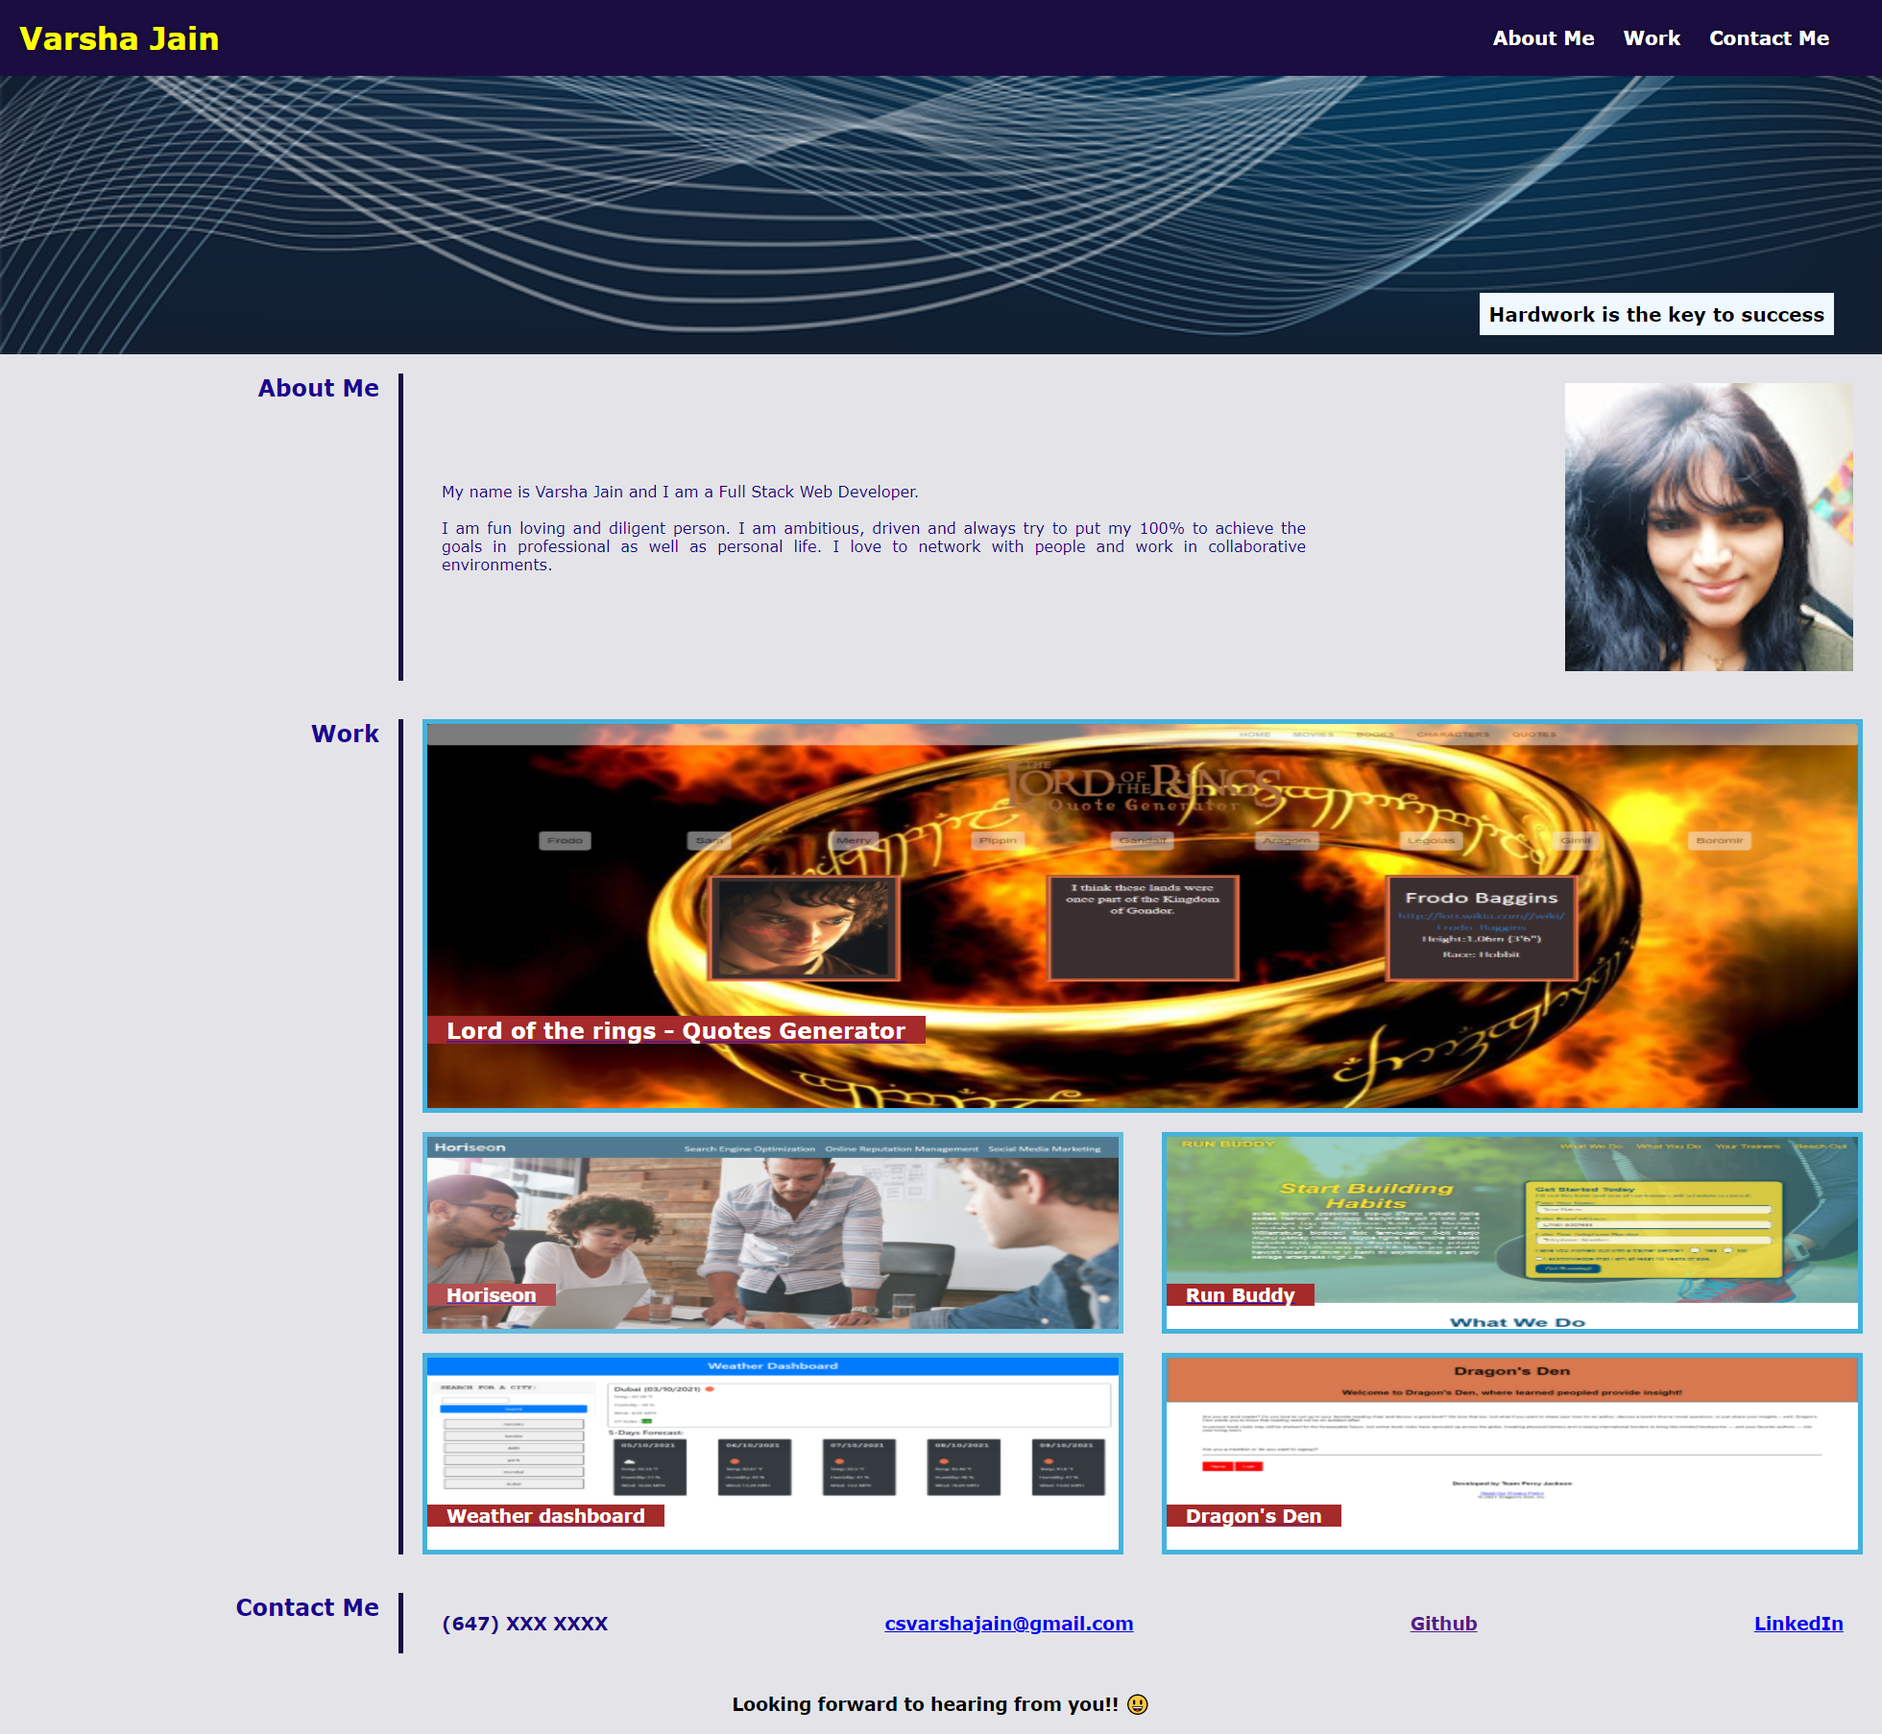
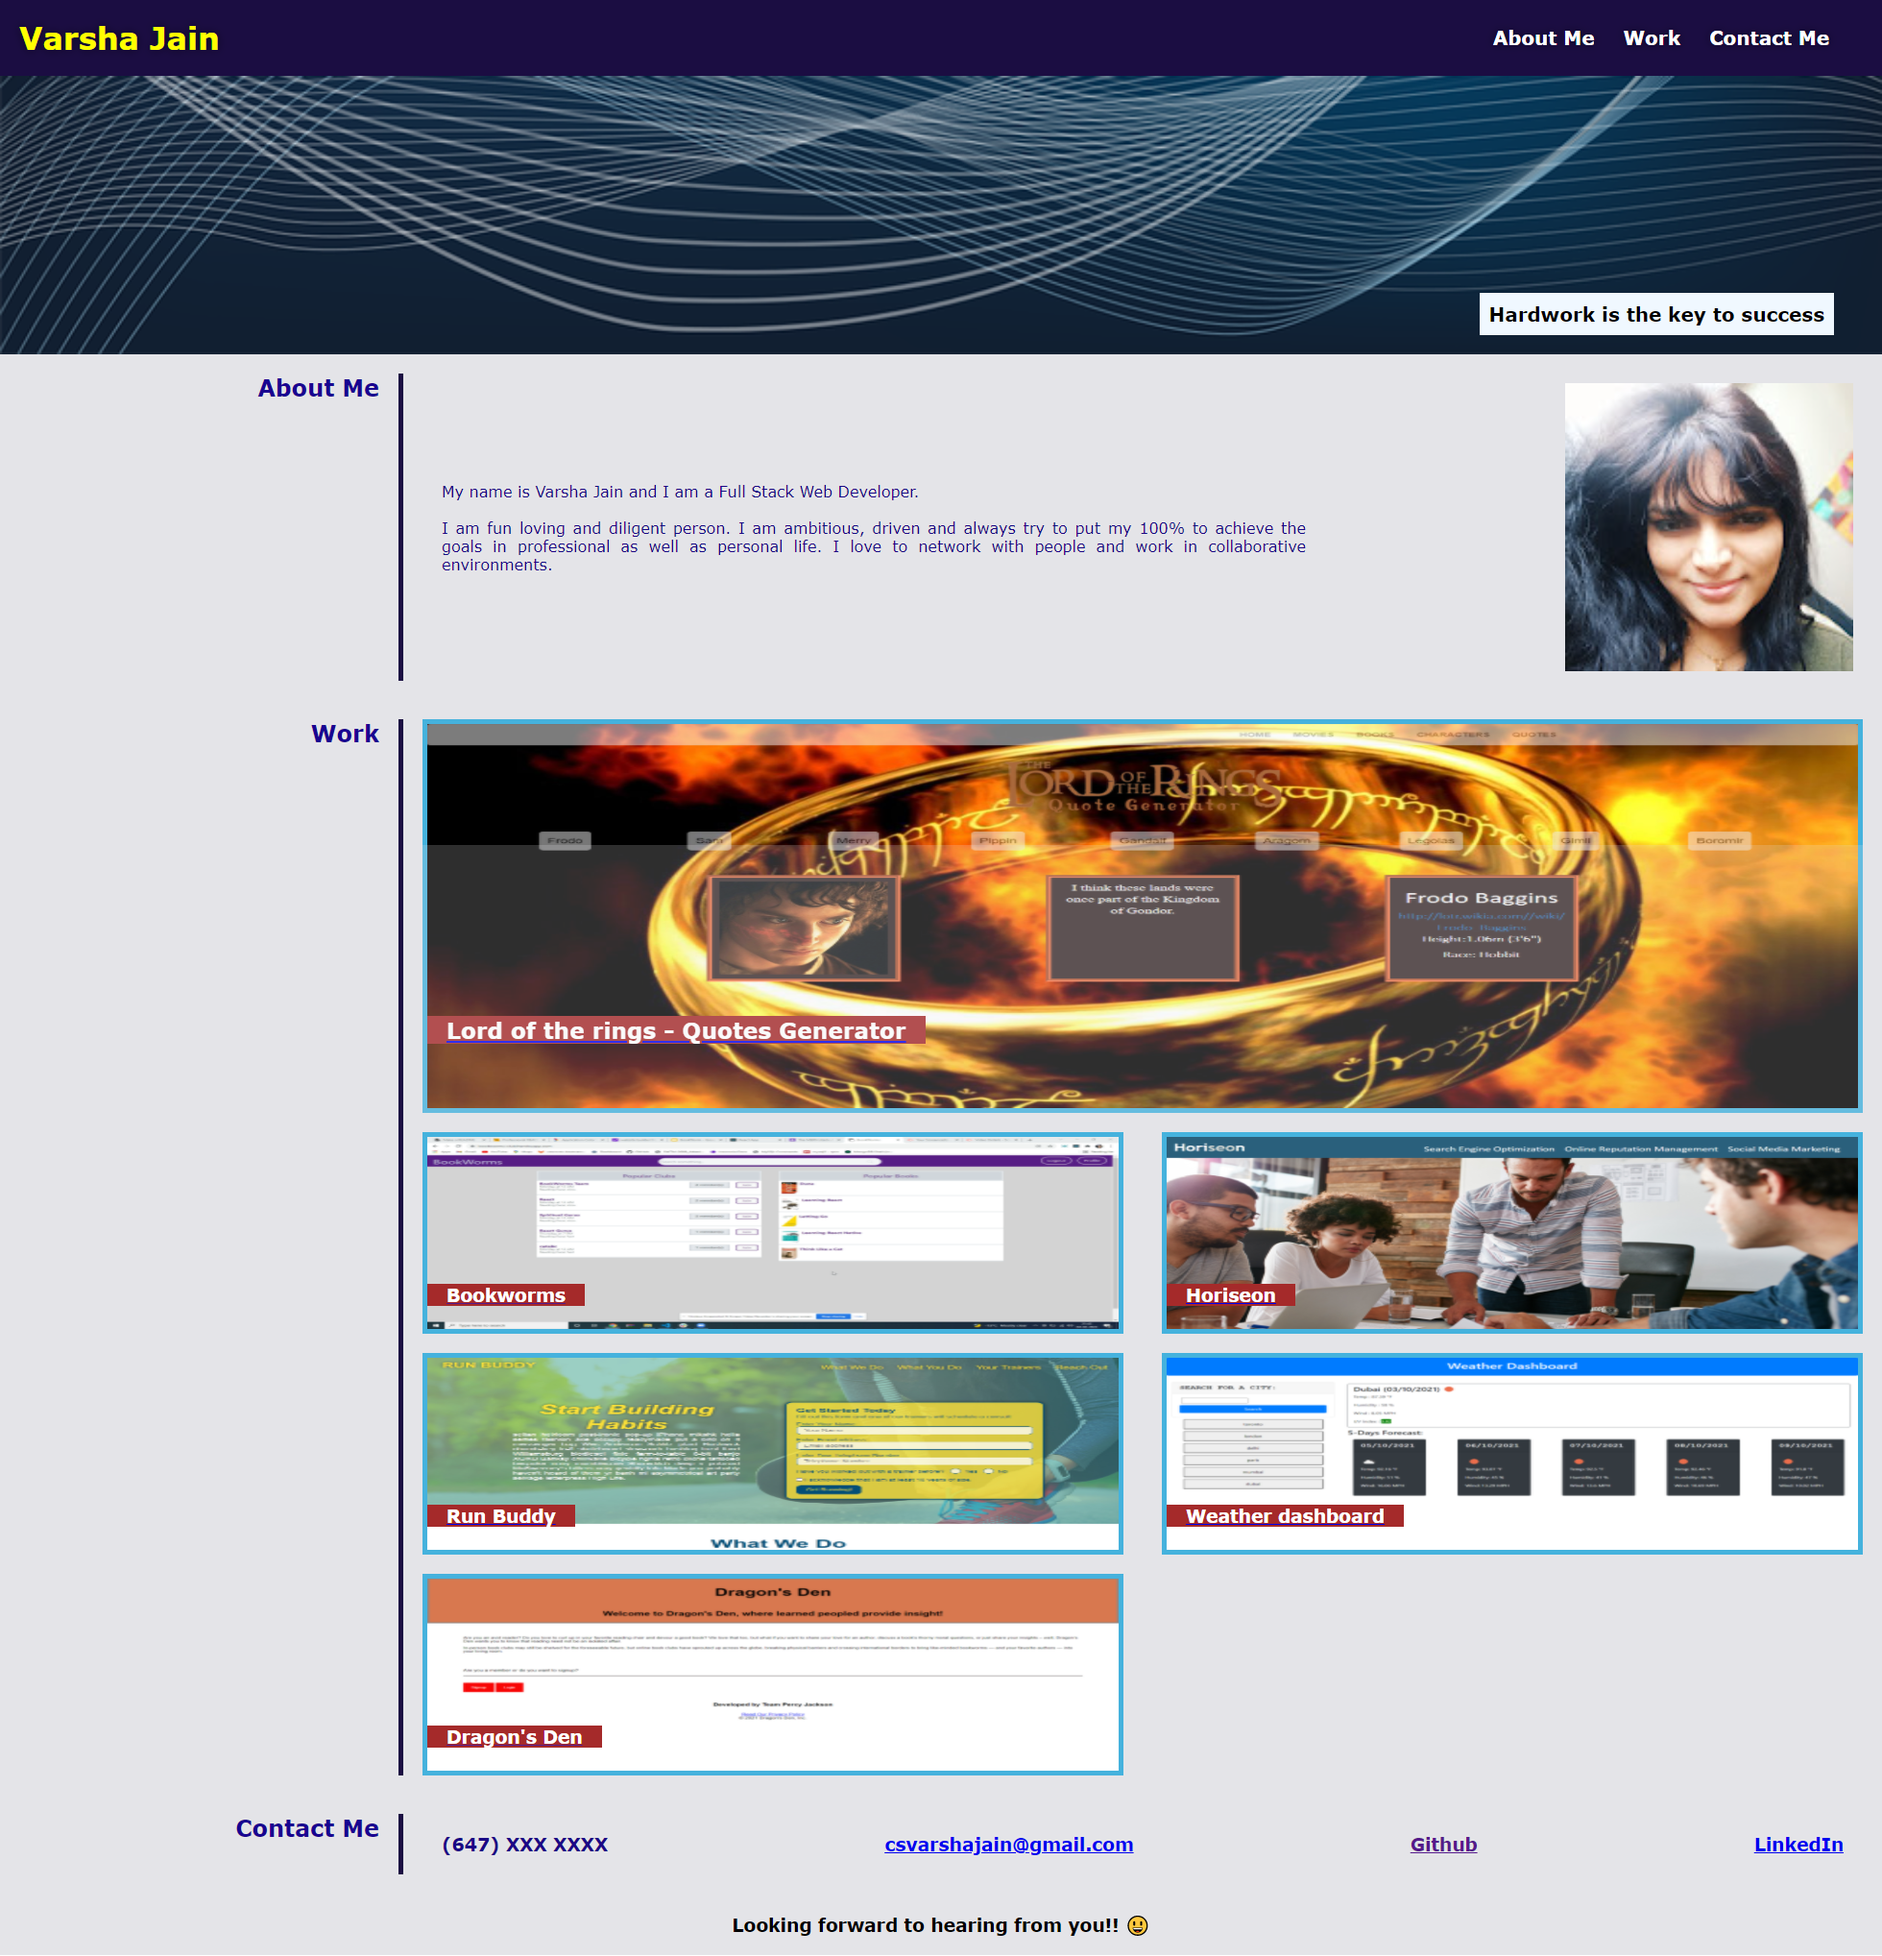
Updated profile with bookworms project

diff --git a/index.html b/index.html
@@ -70,6 +70,16 @@
           </a>
         </div>
 
+        <div id="bookworms" class="project">
+          <a href="https://github.com/maplesyrupman/bookworms">
+            <img src="./assets/images/bookWorm-home.png" alt="BookWorm home page" />
+            <div class="project-name">
+              <h3>Bookworms</h3>
+            </div>
+          </a>
+        </div>
+
+
         <div id="horiseon" class="project">
           <a href="https://vjain83.github.io/horiseon">
             <img src="./assets/images/horiseon.jpg" alt="A marketing agency web page" />
